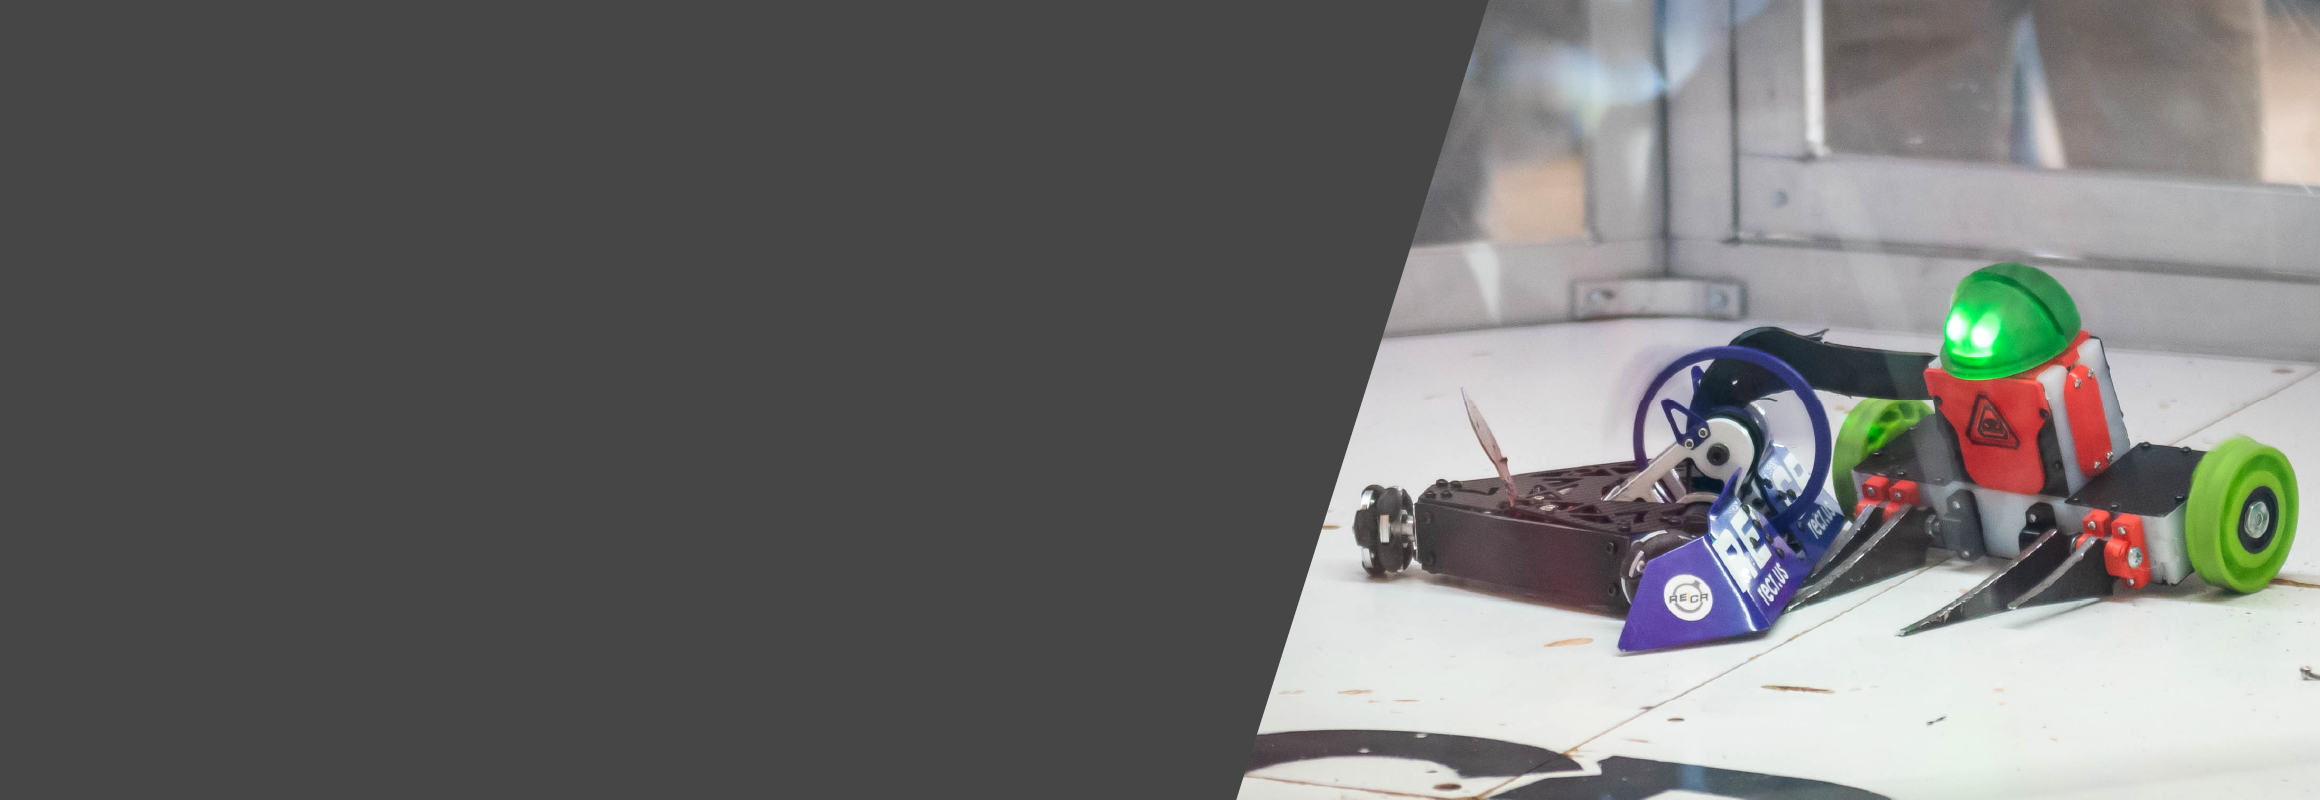
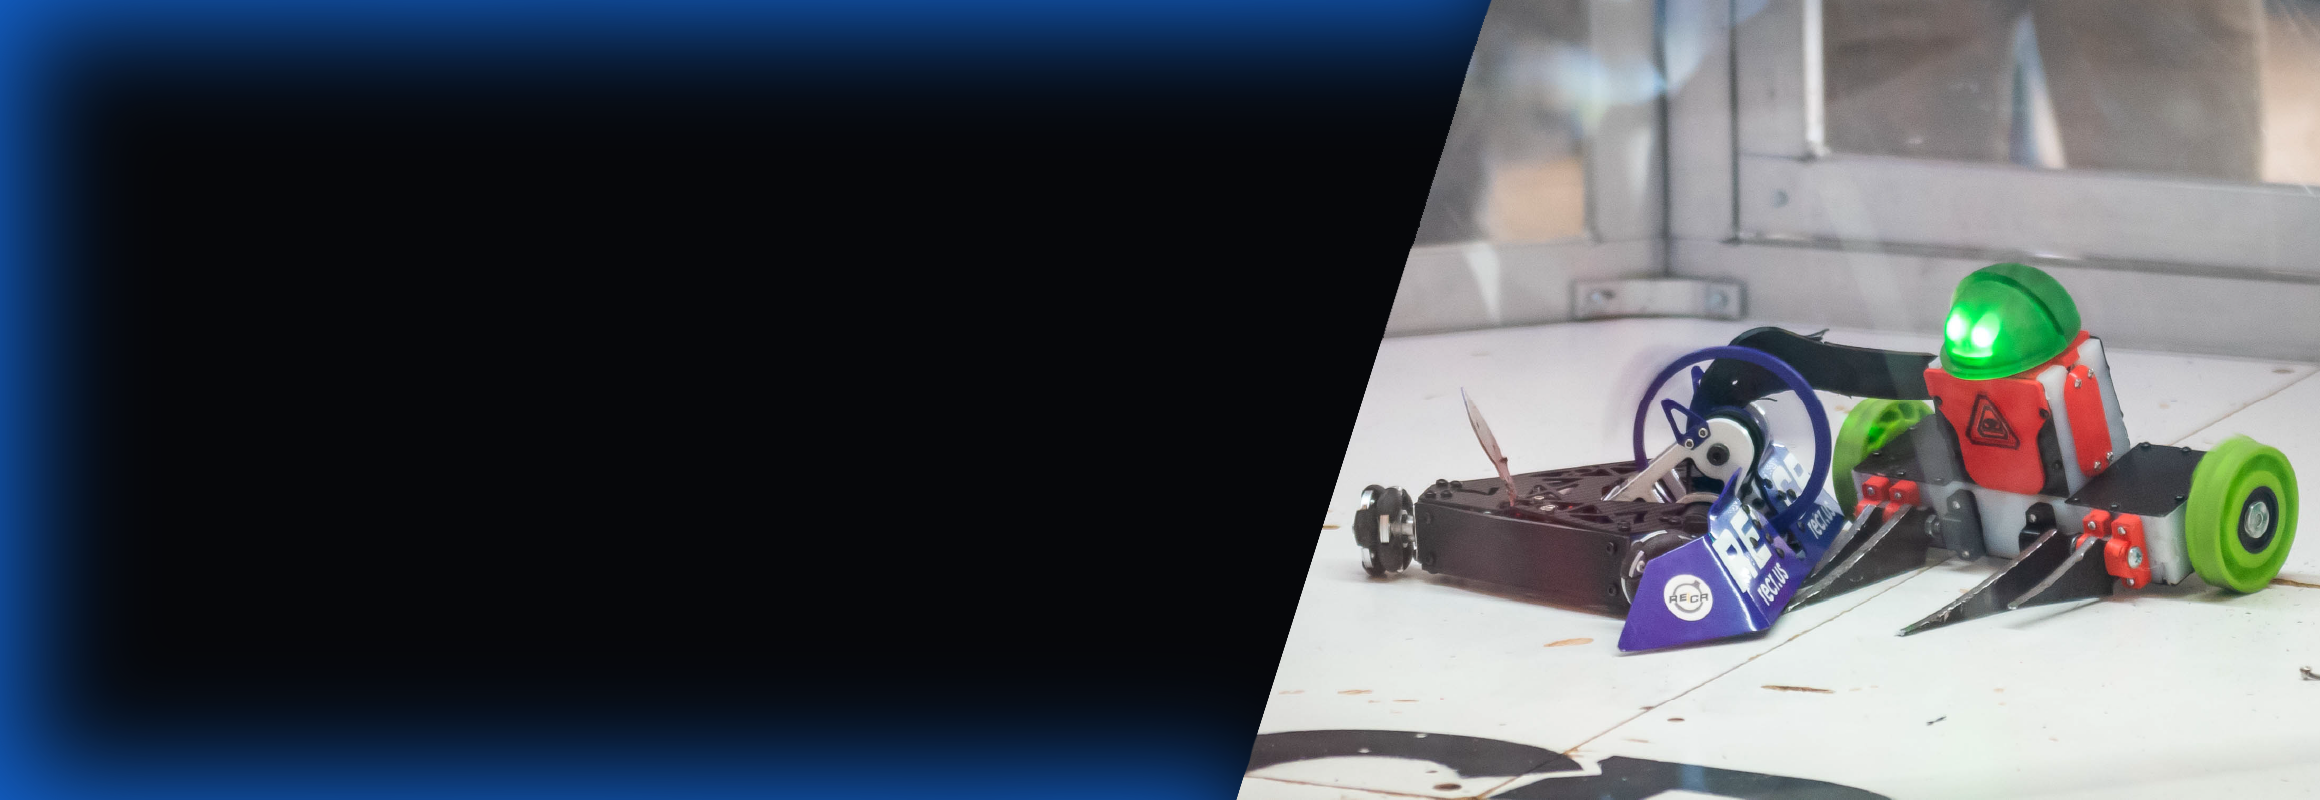
v1.2

diff --git a/src/utils/content.js b/src/utils/content.js
@@ -49,7 +49,7 @@ export const AboutContent = {
   top: {
     title: "About Us",
     subtitle:
-      "The Bellarmine Combat Robotics Club (BCRC) is a high school engineering community dedicated to creating combat robots. Each semester, we delve into bot-building, starting with 1-pound robots in the first semester and progressing to 3-pound bots in the second. Through lectures and meetings, we train our members in design, CAD, assembly, manufacturing, and electronics. At the end of each semester, we host Bell Brawls, our own tournament, inviting schools from across California to compete against us. These competitions have been a huge success, with our last one having more than 120 people watching and 16 teams competing! We compile all of these fights on our blossoming youtube channel, BCRCBots, which has amassed nearly 100 thousand views!",
+      "The Bellarmine Combat Robotics Club (BCRC) is a high school engineering community dedicated to creating combat robots. Each semester, we delve into bot-building, starting with 1-pound robots in the first semester and progressing to 3-pound bots in the second. Through lectures and meetings, we train our members in design, assembly, and manufacturing. At the end of each semester, we host Bell Brawls, our own tournament, inviting schools from across California to compete against us. These competitions have been a huge success, with our last one having more than 120 people watching and 16 teams competing! We compile all of these fights on our blossoming YouTube channel which has amassed nearly 100 thousand views!",
     image: NewsImg,
   },
   bottom: {
@@ -108,7 +108,7 @@ export const BellBrawlsContent = {
 };
 
 export const ProductsContent = {
-  title: "Products & Rentals",
+  title: "Rentals",
   // subtitle: "Built and designed in our lab",
   ITEMS: [
     {

diff --git a/src/components/Navbars/MainNavbar.jsx b/src/components/Navbars/MainNavbar.jsx
@@ -46,8 +46,8 @@ const Navbar = () => {
       sx={{
         py: 1,
         height: NAVBAR_HEIGHT,
-        bgcolor: scrollPosition > 10 ? "rgba(7,7,16,.7)" : "transparent",
-        backdropFilter: scrollPosition > 10 && "blur(60px)",
+        bgcolor: scrollPosition > 10 ? "rgba(18,97,203,.5)" : "transparent",
+        backdropFilter: scrollPosition > 10 && "blur(50px)",
       }}
     >
       <Container
@@ -91,10 +91,10 @@ const Navbar = () => {
                 <KeyboardArrowDownIcon fontSize="small" />
               </LinkButton>
 
-              {/* <LinkButton>
-                <Typography variant="body2" onClick={() => scroll("#products")}>Products & Rentals</Typography>
+              <LinkButton>
+                <Typography variant="body2" onClick={() => scroll("#products")}>Rentals</Typography>
                 <KeyboardArrowDownIcon fontSize="small" />
-              </LinkButton> */}
+              </LinkButton>
 
               <LinkButton>
                 <Typography variant="body2" onClick={() => scroll("#sponsors")}>Sponsors</Typography>

diff --git a/src/containers/About.jsx b/src/containers/About.jsx
@@ -27,7 +27,7 @@ const About = () => {
         <Grid item xs={12} md={6}>
           <img
             src={top.image}
-            style={{ width: "100%", objectFit: "contain" }}
+            style={{ width: "100%", objectFit: "contain", borderRadius: '25px', boxShadow: '0px 0px 50px 15px #1261cb' }}
           />
         </Grid>
       </Grid>
@@ -45,7 +45,7 @@ const About = () => {
         <Grid item xs={12} md={6}>
           <img
             src={bottom.TABS[tabValue].image}
-            style={{ width: "100%", objectFit: "contain" }}
+            style={{ width: "100%", objectFit: "contain", borderRadius: '50px', boxShadow: '0px 0px 50px 15px #1261cb' }}
           />
         </Grid>
 
@@ -76,7 +76,7 @@ const About = () => {
               variant="body2"
               color="text.secondary"
               sx={{ pb: 2, minHeight: 70 }}
-              style={{whiteSpace: 'pre-line'}}
+              style={{ whiteSpace: 'pre-line' }}
             >
               {bottom.TABS[tabValue].subtitle}
             </Typography>

diff --git a/src/components/Footers/MainFooter.jsx b/src/components/Footers/MainFooter.jsx
@@ -37,23 +37,22 @@ const Footer = () => {
   return (
     <Box>
       <Divider sx={{ m: 5 }} />
-
       <Container>
         <Stack
-          direction={{ xs: "column", md: "row" }}
-          justifyContent="space-between"
+          direction={{ xs: "column", md: "column", lg: "row"}}
+          justifyContent="flex-start"
           alignItems="center"
-          spacing={1}
+          spacing={2}
           sx={{ pb: 5 }}
         >
           <Typography variant="body2" color="text.secondary">
-            Bellarmine Combat Robotics Competition
+            Bellarmine Maker Lab
           </Typography>
           <Typography variant="body2" color="text.secondary">
             960 W Hedding St, San Jose, CA 95126
           </Typography>
           <Container />
-          <Stack direction={"row"} spacing={5}>
+          <Stack direction={"row"} spacing={2}>
             <IconButton href={"https://www.instagram.com/bcrcbots/"}>
               <InstagramIcon />
             </IconButton>

diff --git a/src/containers/Products.jsx b/src/containers/Products.jsx
@@ -8,8 +8,8 @@ const { title, subtitle, ITEMS } = ProductsContent;
 
 const Products = () => {
   return (
-    <Container sx={{ mt: { xs: 10, md: 20, lg: 25 } }}>
-      <Title variant={{ xs: "h3", md: "h2" }} sx={{ mb: 2 }} id="products">
+    <Container sx={{ mt: { xs: 10, md: 10, lg: 25 } }}>
+      <Title variant={{ xs: "h3", md: "h2" }} sx={{ mb: 2, textAlign: "center"}} id="products" >
         {title}
       </Title>
 
@@ -22,7 +22,7 @@ const Products = () => {
         {subtitle}
       </Typography>
 
-      <Grid container spacing={3}>
+      <Grid container spacing={3} justifyContent="center">
         {ITEMS.map((item) => (
           <Grid item xs={12} md={6} key={item.title}>
             <ServiceCard {...item} />

diff --git a/src/containers/BellBrawls.jsx b/src/containers/BellBrawls.jsx
@@ -74,8 +74,8 @@ const BellBrawls = () => {
                   fit={true}
                   // fullWidth={isMobile}
                   sx={{ height: 48 }}
-                  disabled
-                  href="https://www.robotcombatevents.com/events/980"
+                  // disabled
+                  href="https://www.robotcombatevents.com/events/1206"
                 >
                   Sign up
                 </OutlinedButton>

diff --git a/src/App.jsx b/src/App.jsx
@@ -1,10 +1,10 @@
 import React from "react";
-import { Route, Routes, withRouter } from "react-router-dom";
+import { Route, Routes } from "react-router-dom";
 import Home from "./pages/Home";
 import Swap from "./pages/Swap";
 import ReactGA from 'react-ga';
 
-ReactGA.initialize(GA_KEY);
+ReactGA.initialize('');
 
 const App = () => {
   return (

diff --git a/src/components/Cards/ServiceCard.jsx b/src/components/Cards/ServiceCard.jsx
@@ -23,6 +23,7 @@ const ServiceCard = ({ title, subtitle, image, button, disabled, link }) => {
           WebkitMaskComposite: "xor",
           maskComposite: "exlude",
         },
+        boxShadow: '0px 0px 50px 10px #1261cb' 
       }}
     >
       <Stack sx={{ height: "100%" }} spacing={1}>

diff --git a/src/pages/Home.jsx b/src/pages/Home.jsx
@@ -23,9 +23,9 @@ const Home = () => {
       <Box sx={{ bgcolor: "background.default", position: "relative" }}>
         <BellBrawls />
         <About />
+        <Products/>
         <Sponsors />
         <Sponsors2 />
-        <Products/>
         <Contact />
         <Footer />
       </Box>

diff --git a/src/utils/theme/index.js b/src/utils/theme/index.js
@@ -8,10 +8,10 @@ const theme = createTheme({
       main: "#1261cb",
     },
     background: {
-      default: "#1f1f1f",
+      default: "#06070a",
     },
     text: {
-      secondary: "rgba(255, 255, 255, 0.6)",
+      secondary: "#cccccc",
     },
   },
   typography,
